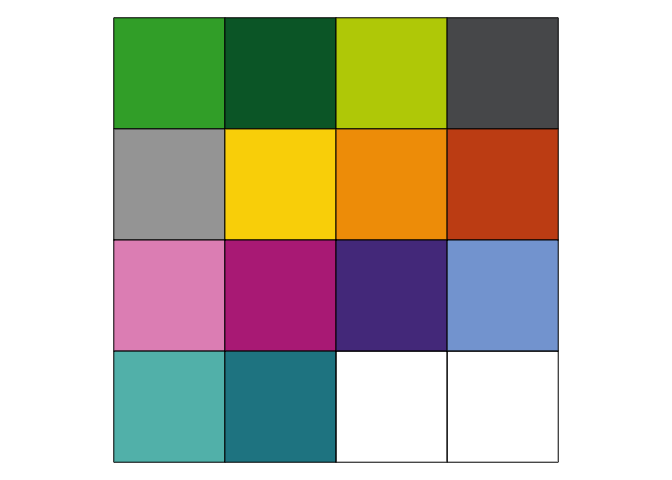
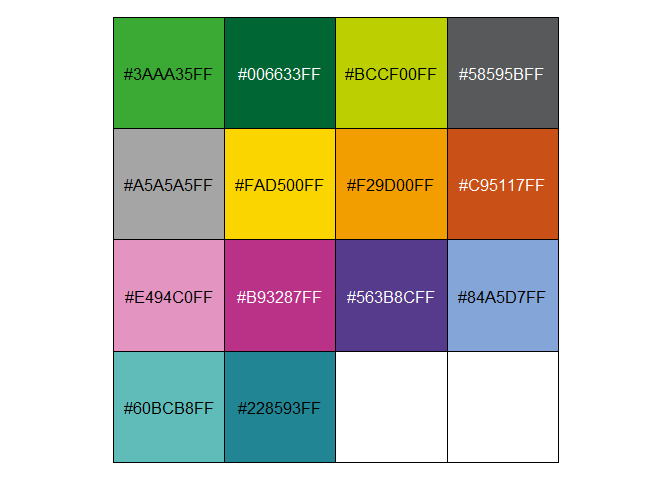
Optimize and update readme, add reversing of discrete scale, adding discrete scales GnRd and PuBl, updating internal dataset.

diff --git a/README.md b/README.md
@@ -10,12 +10,12 @@
 
 The goal of ggsano is to standardize and implement the Sciensano
 housestyle within R. The ggsano package currently provides three
-categories of important functions: sciensano_style, sciensano_colours
-and sciensano_templates. The sciensano_style functions can handle a
+categories of important functions: sciensano\_style, sciensano\_colours
+and sciensano\_templates. The sciensano\_style functions can handle a
 ggplot2-object and recompile it according to the Sciensano house style.
-The sciensano_colours functions return the Sciensano house style colours
-in HEX format (‘#XXXXXX’). Both discrete and continuous scales are
-available.
+The sciensano\_colours functions return the Sciensano house style
+colours in HEX format (‘\#XXXXXX’). Both discrete and continuous scales
+are available.
 
 ## Installation
 
@@ -31,6 +31,14 @@ The package can be loaded by:
 
 ``` r
 library(ggsano)
+#> Scanning ttf files in C:\WINDOWS\Fonts ...
+#> Extracting .afm files from .ttf files...
+#> C:\Windows\Fonts\arial.ttf : ArialMT already registered in fonts database. Skipping.
+#> C:\Windows\Fonts\arialbd.ttf : Arial-BoldMT already registered in fonts database. Skipping.
+#> C:\Windows\Fonts\arialbi.ttf : Arial-BoldItalicMT already registered in fonts database. Skipping.
+#> C:\Windows\Fonts\ariali.ttf : Arial-ItalicMT already registered in fonts database. Skipping.
+#> Found FontName for 0 fonts.
+#> Scanning afm files in C:/Users/RoDe1798/Documents/R-4.0.2/library/extrafontdb/metrics
 ```
 
 ## Using the functions
@@ -40,28 +48,50 @@ library(ggsano)
 The package has two palettes-functions available: `pal_sciensano()` for
 discrete colors, and `pal_sciensano_c()` for continuous colors.
 
-For the color palette `pal_sciensano`, there are two options available:
-`default` and `contrast`.
+For the color palette `pal_sciensano`, there are four options available:
+`default`, `contrast`, `GnRd`, and `PuBl`. The colors and HEX-codes are
+as follows:
+
+**DEFAULT**
 
 ``` r
-scales::show_col(pal_sciensano(palette = "default")(14), labels = FALSE)
+scales::show_col(pal_sciensano(palette = "default")(14), labels = TRUE)
 ```
 
 <img src="man/figures/README-unnamed-chunk-3-1.png" width="100%" />
 
+**CONTRAST**
+
 ``` r
-scales::show_col(pal_sciensano(palette = "contrast")(12),  labels = FALSE)
+scales::show_col(pal_sciensano(palette = "contrast")(12),  labels = TRUE)
 ```
 
 <img src="man/figures/README-unnamed-chunk-4-1.png" width="100%" />
 
-Hereafter an example is given using public available data. The pallete
-can be used to color and fill a graph based on discrete scale
+**GnRd**
+
+``` r
+scales::show_col(pal_sciensano(palette = "GnRd")(6),  labels = TRUE)
+```
+
+<img src="man/figures/README-unnamed-chunk-5-1.png" width="100%" />
+
+**PuBl**
+
+``` r
+scales::show_col(pal_sciensano(palette = "PuBl")(6),  labels = TRUE)
+```
+
+<img src="man/figures/README-unnamed-chunk-6-1.png" width="100%" />
+
+Using the palette for a discrete scale:
 
 ``` r
 library("ggplot2")
+#> Warning: package 'ggplot2' was built under R version 4.0.5
 library("reshape2")
 library("cowplot")
+#> Warning: package 'cowplot' was built under R version 4.0.5
 
 data("mtcars")
 data("diamonds")
@@ -72,11 +102,11 @@ ggplot(
 ) +
   geom_point(alpha = 0.7) +
   geom_smooth(method = "loess", alpha = 0.1, size = 1, span = 1) +
-  theme_bw() + scale_color_sciensano(palette = "contrast")
+  theme_bw() + scale_color_sciensano(palette = "GnRd", reverse = TRUE)
 #> `geom_smooth()` using formula 'y ~ x'
 ```
 
-<img src="man/figures/README-unnamed-chunk-5-1.png" width="100%" />
+<img src="man/figures/README-unnamed-chunk-7-1.png" width="100%" />
 
 ``` r
 ggplot(
@@ -84,12 +114,12 @@ ggplot(
   aes(x = depth, fill = cut)
 ) +
   geom_histogram(colour = "black", binwidth = 1, position = "dodge") +
-  theme_bw() + scale_fill_sciensano(palette = "contrast")
+  theme_bw() + scale_fill_sciensano(palette = "GnRd", reverse = TRUE)
 ```
 
-<img src="man/figures/README-unnamed-chunk-5-2.png" width="100%" />
+<img src="man/figures/README-unnamed-chunk-7-2.png" width="100%" />
 
-The palette can also be used with a continuous scale.
+Using the palette for a continuous scale:
 
 ``` r
 cor <- abs(cor(mtcars))
@@ -119,19 +149,32 @@ p3 <- ggplot(
 cowplot::plot_grid(p1, p2, p3)
 ```
 
-<img src="man/figures/README-unnamed-chunk-6-1.png" width="100%" /> ###
-sciensano style
+<img src="man/figures/README-unnamed-chunk-8-1.png" width="100%" />
+
+### sciensano style
 
 `sciensano_style()`: has no arguments and is added to the ggplot chain
-after you have created a plot. What it does is generally makes text
-size, font and colour, axis lines, axis text and many other standard
-chart components into Sciensano style.
+after you have created a plot. It will change the text-size, font, and
+lay-out of the graph into a dedicated Sciensano theme.
 
 ``` r
-p1+sciensano_style()
+p1 +
+  sciensano_style() + ## Default font is Arial.
+  theme(legend.key.width = ggplot2::unit(2.5, "cm")) ## extend the legend
 ```
 
-<img src="man/figures/README-unnamed-chunk-7-1.png" width="100%" />
+<img src="man/figures/README-unnamed-chunk-9-1.png" width="100%" />
+
+``` r
+ggplot(
+  subset(diamonds, carat > 2.2 & depth > 55 & depth < 70),
+  aes(x = depth, fill = cut)) +
+  geom_histogram(colour = "black", binwidth = 1, position = "dodge") +
+  theme_bw() + scale_fill_sciensano(palette = "GnRd", reverse = TRUE) +
+  sciensano_style()
+```
+
+<img src="man/figures/README-unnamed-chunk-10-1.png" width="100%" />
 
 ### Finalizing plots
 
@@ -167,12 +210,11 @@ Here are the function arguments:
     prepared with a wide and thin image in mind.
 
 ``` r
-finalise_plot(plot_name = p1,
-source = "Source: XX",
-save_filepath = "filename_that_my_plot_should_be_saved_to-nc.png",
-logo_image_path = "inst/extdata/logo.png",
-width_pixels = 640,
-height_pixels = 550)
+finalise_plot(
+  plot_name = p1,
+  source = "Source: XX",
+  logo_image_path = "inst/extdata/logo.png",
+  width_pixels = 640,
+  height_pixels = 550
+)
 ```
-
-<img src="man/figures/README-unnamed-chunk-8-1.png" width="100%" />
